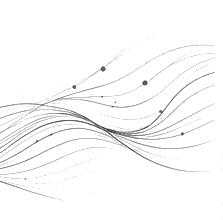
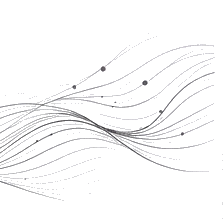
Fix duplicate content (stale WebView tile after resize) and hard-binary wave alpha

diff --git a/app/src/main/java/com/example/fa_ksiegowy/InvoiceHtmlPdfGenerator.kt b/app/src/main/java/com/example/fa_ksiegowy/InvoiceHtmlPdfGenerator.kt
@@ -544,11 +544,24 @@ object InvoiceHtmlPdfGenerator {
                                         View.MeasureSpec.makeMeasureSpec(totalHeightPx, View.MeasureSpec.EXACTLY)
                                     )
                                     view.layout(0, 0, renderWidthPx, totalHeightPx)
-                                    val bmp = Bitmap.createBitmap(renderWidthPx, totalHeightPx, Bitmap.Config.ARGB_8888)
-                                    val canvas = Canvas(bmp)
-                                    canvas.drawColor(Color.WHITE)
-                                    view.draw(canvas)
-                                    if (cont.isActive) cont.resume(bmp)
+                                    // KRYTYCZNE: bez tego opóźnienia view.draw(canvas) potrafi
+                                    // złapać częściowo NIEOD-rysowaną klatkę — Chromium nie
+                                    // zdążył jeszcze zrasteryzować nowo odsłoniętego obszaru po
+                                    // powiększeniu View, przez co w Bitmapie pojawiają się stare/
+                                    // zduplikowane kafelki (np. nagłówek powtórzony niżej zamiast
+                                    // prawdziwej treści stopki). Druga klatka (post -> post)
+                                    // dodatkowo czeka na zakończenie bieżącego cyklu rysowania.
+                                    view.postDelayed({
+                                        if (!cont.isActive) return@postDelayed
+                                        view.post {
+                                            if (!cont.isActive) return@post
+                                            val bmp = Bitmap.createBitmap(renderWidthPx, totalHeightPx, Bitmap.Config.ARGB_8888)
+                                            val canvas = Canvas(bmp)
+                                            canvas.drawColor(Color.WHITE)
+                                            view.draw(canvas)
+                                            if (cont.isActive) cont.resume(bmp)
+                                        }
+                                    }, 350)
                                 }
                             }, 150)
                         }
